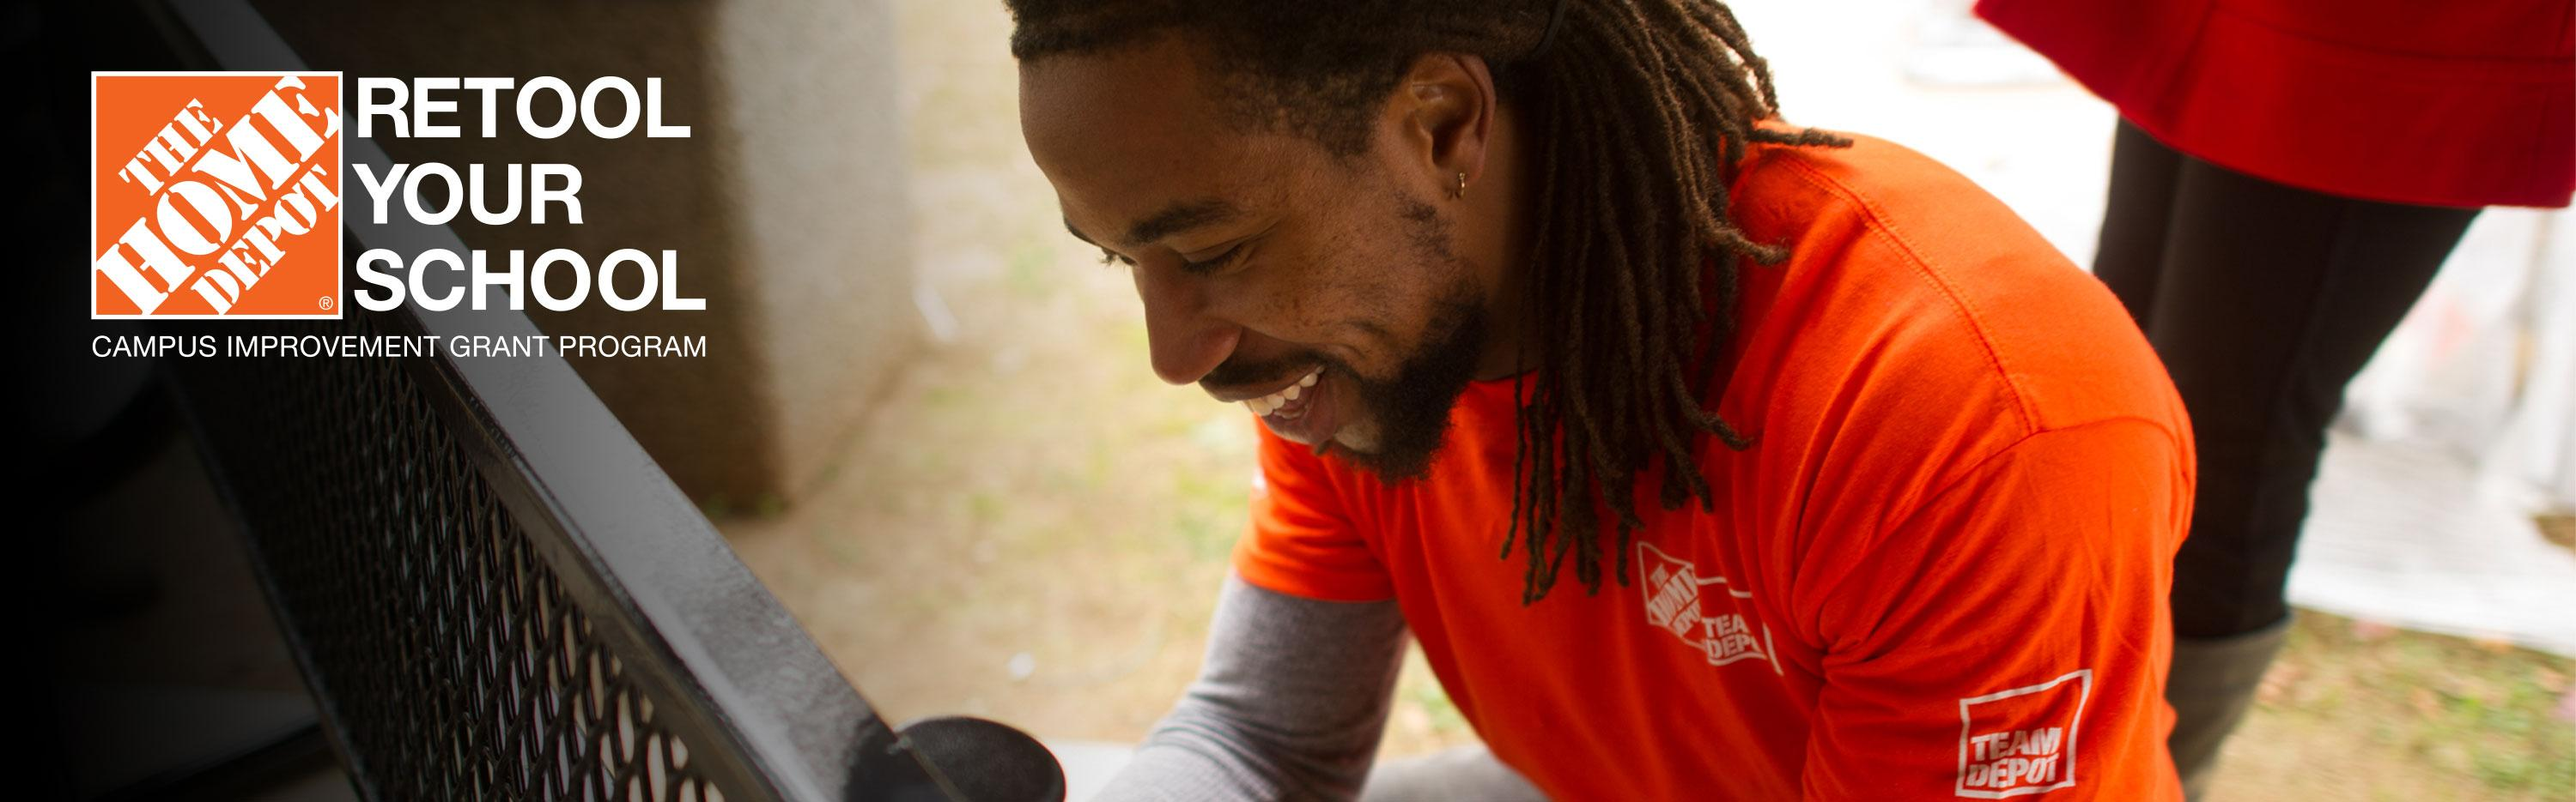
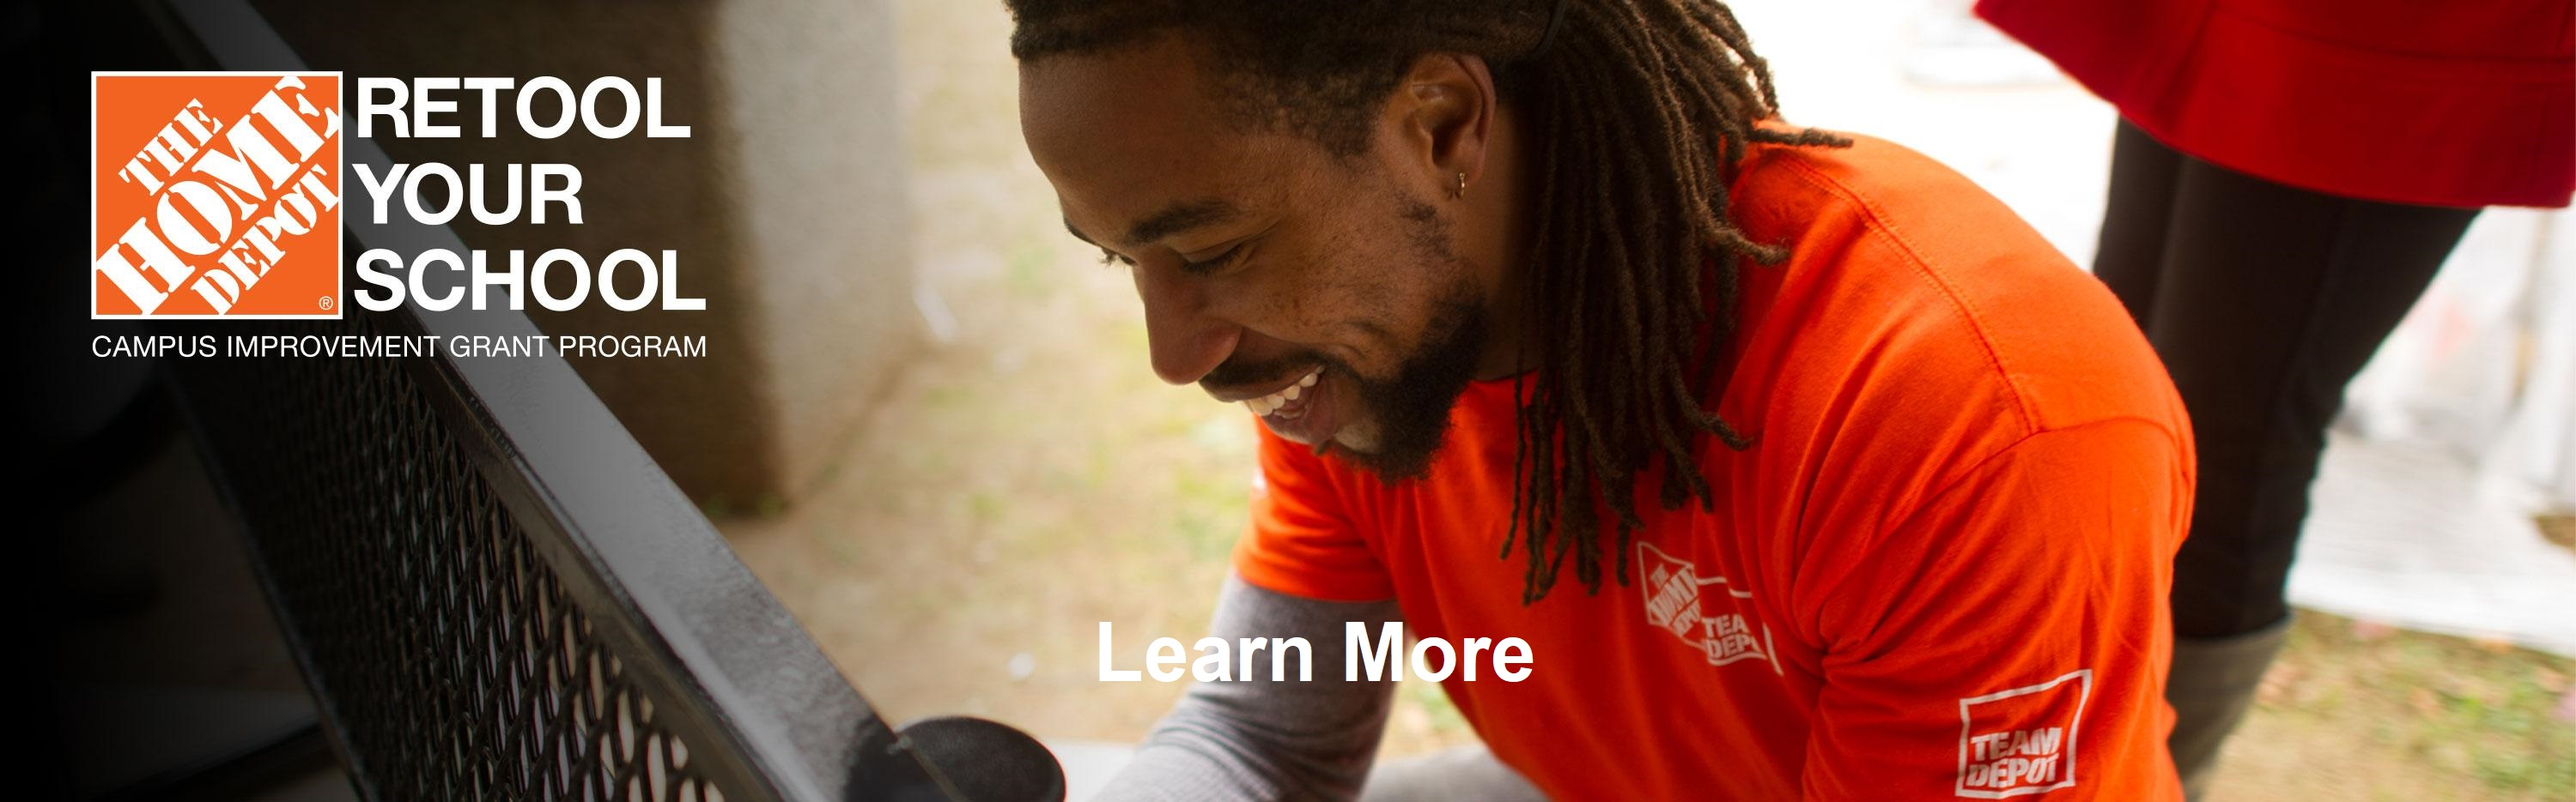
retool ya skool

Changed region(s): [[0.403, 0.7754, 0.62, 0.8684]]

diff --git a/homedepot.html b/homedepot.html
@@ -150,7 +150,8 @@ We engage associates and support and inclusive culture through Associate Resourc
 
         <div class="row content">
           <div class="col-lg-12">
-          <img src="assets/img/retoolschool.jpg" width="100%">
+         
+          <a href="https://www.retoolyourschool.com/" target="_blank"><img src="assets/img/retoolschool.jpg" width="100%" alt="Button image"></a>
             <br>
           </div>
         </div>
